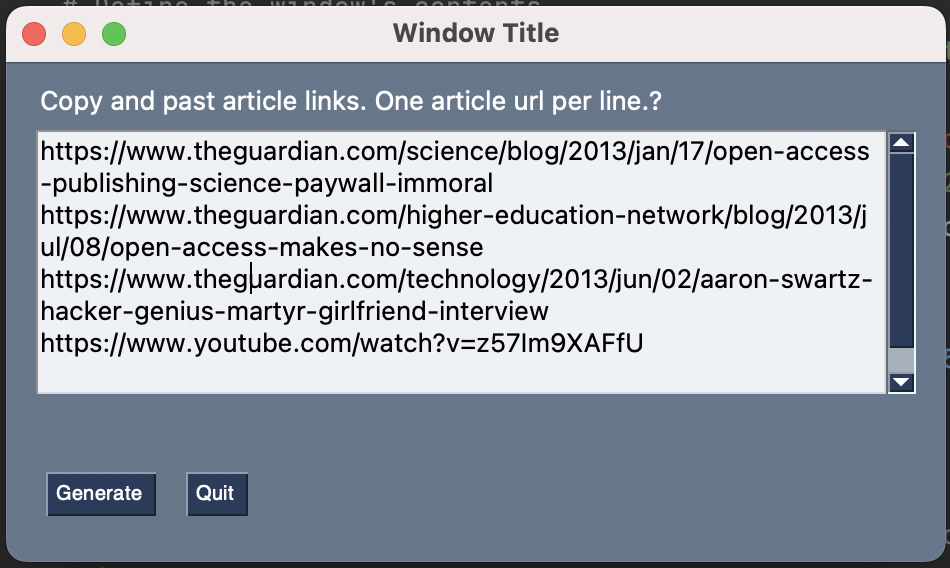
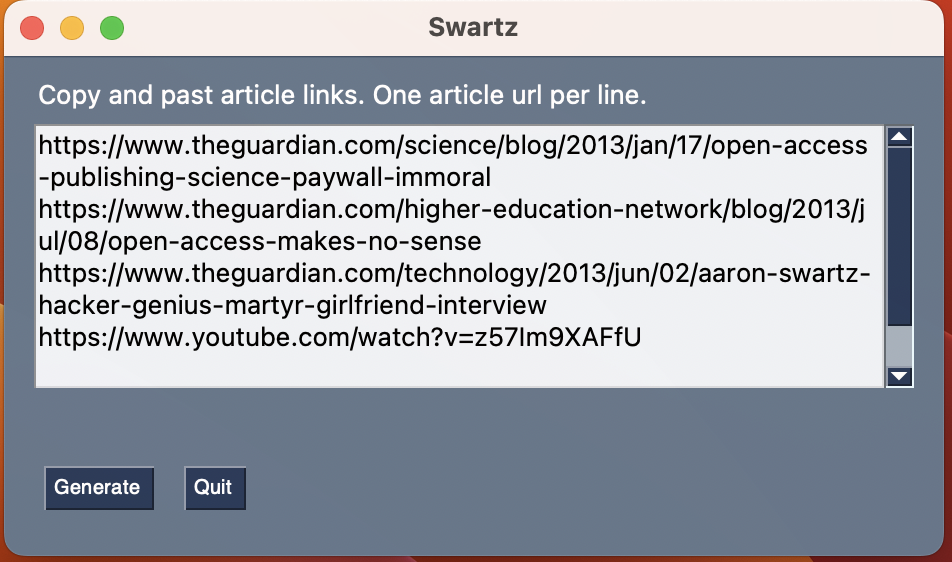
Adjust image size

Changed region(s): [[0.0, 0.0, 1.0, 1.0]]

diff --git a/ui/swartz_window.py b/ui/swartz_window.py
@@ -14,7 +14,7 @@ class SwartzWindow:
                   [sg.Button('Generate', pad=(10, 10)), sg.Button('Quit')]]
 
         # Create the window
-        window = sg.Window('Window Title', layout, size=(470, 250), resizable=True)
+        window = sg.Window('Swartz', layout, size=(470, 250), resizable=True)
 
         bulk_ref = rd.BulkReferencer()
 
